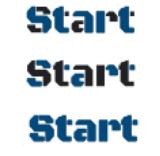
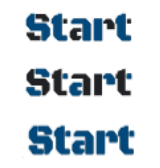
btn

Changed region(s): [[0.1562, 0.0256, 0.8438, 0.2564], [0.1562, 0.7179, 0.875, 0.9487], [0.1562, 0.359, 0.875, 0.5897]]

diff --git a/script.js b/script.js
@@ -22,7 +22,7 @@ function preload() {
     game.load.image('paddle', 'img/paddle.png');
     game.load.image('brick', 'img/brick.png');
     game.load.spritesheet('ball', 'img/wobble.png', 30, 30);
-    game.load.spritesheet('button', 'img/button.png', 160, 52);
+    game.load.spritesheet('button', 'img/button.png', 160, 56);
 }
 function create() {
     game.physics.startSystem(Phaser.Physics.ARCADE);
